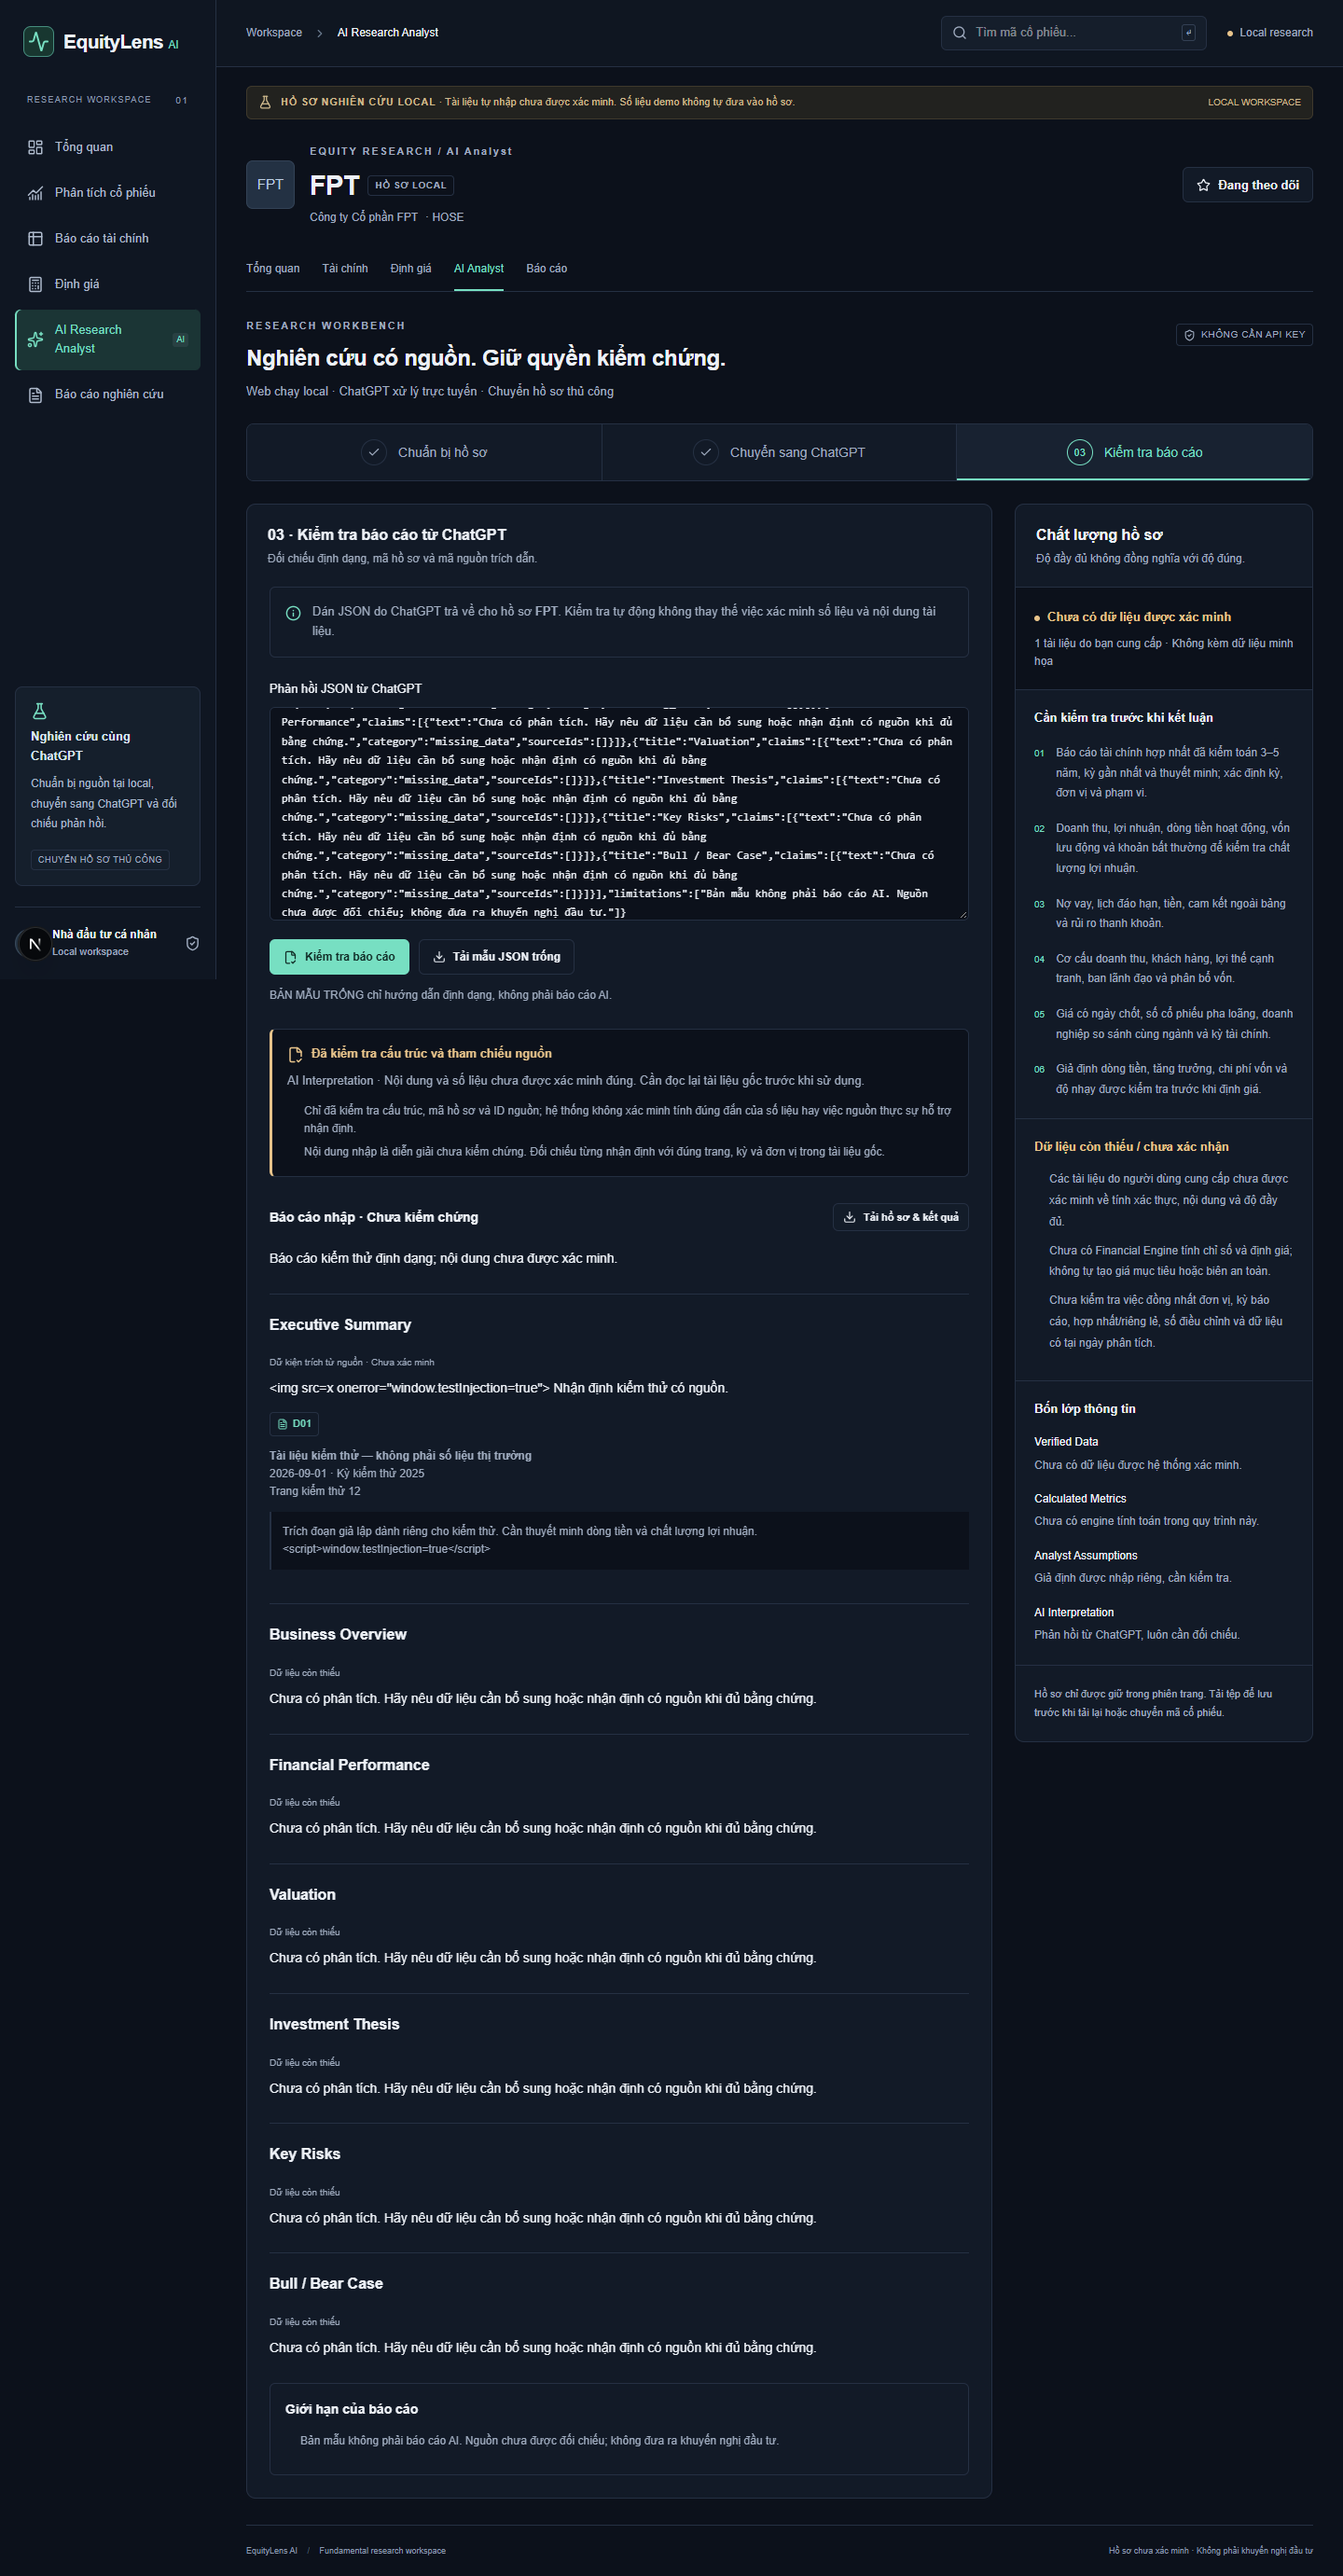
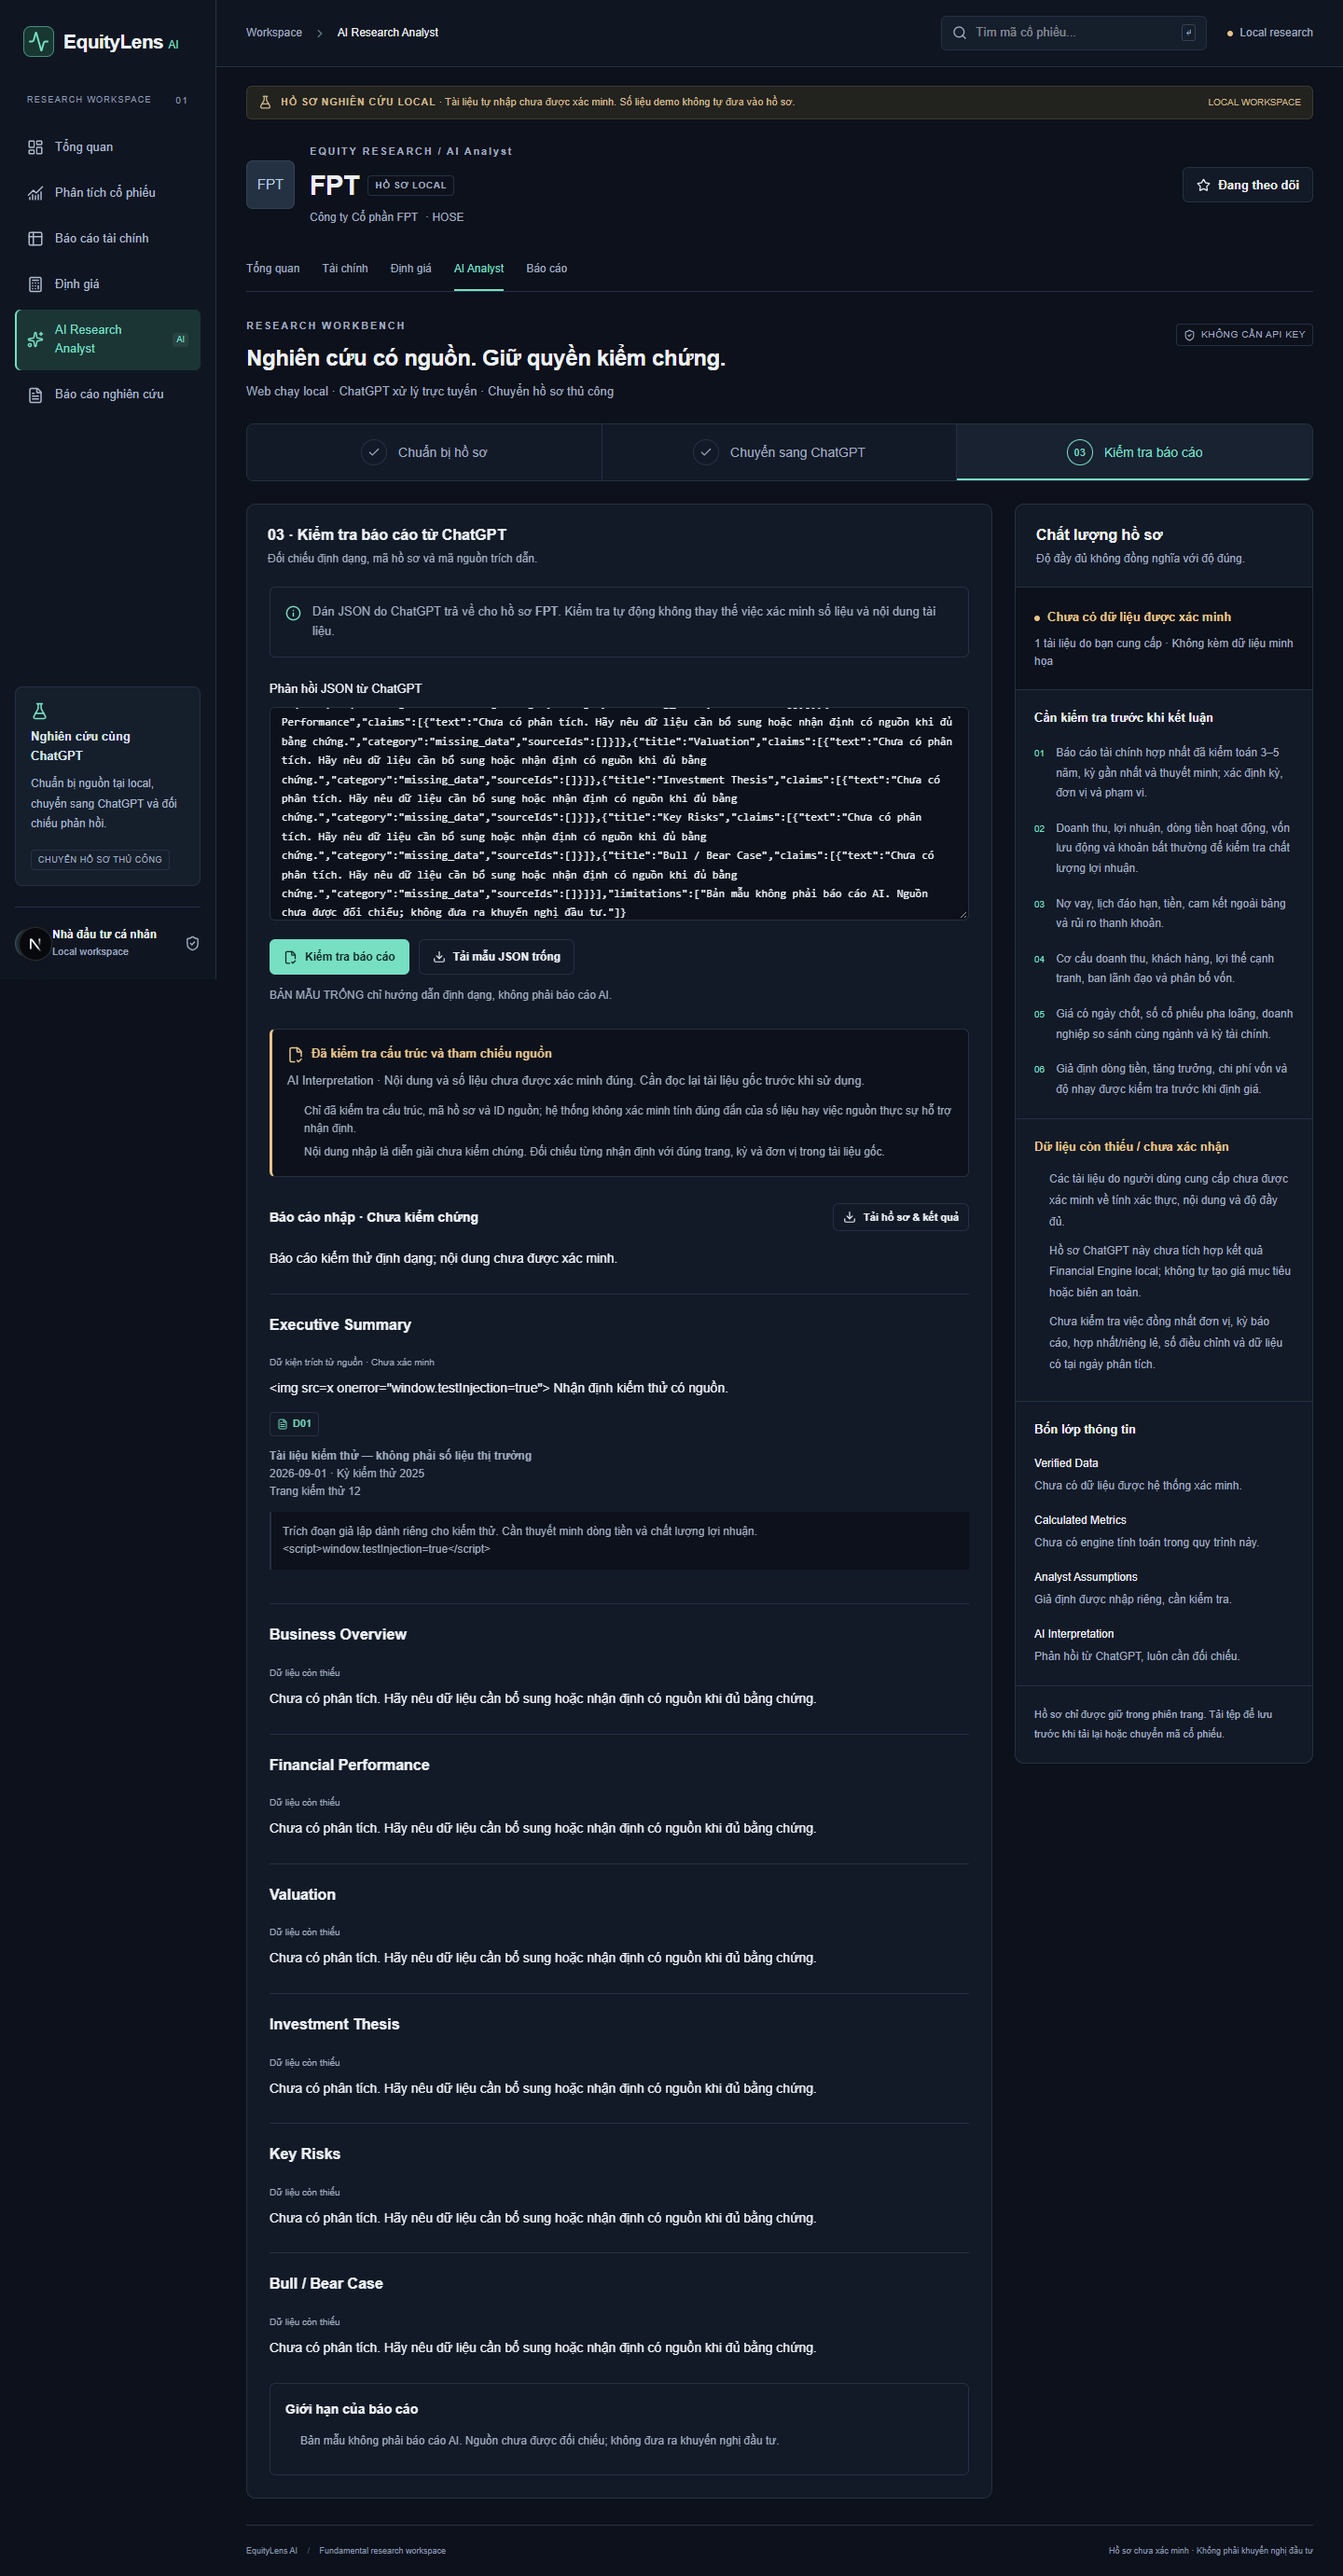
docs: record Phase 2 verification and model limitations

Changed region(s): [[0.75, 0.4671, 0.9688, 0.685]]

diff --git a/docs/PHASE2_REPORT.md b/docs/PHASE2_REPORT.md
@@ -1,0 +1,66 @@
+# Phase 2 — Financial Intelligence Engine
+
+Ngày hoàn thành kiểm tra: 10/10/2026. Branch làm việc: `feature/equitylens-foundation`. Kế thừa ứng dụng Phase 1, không khởi tạo lại, không thêm dependency, không gọi dịch vụ trả phí hoặc deploy.
+
+## Đã triển khai
+
+- Audit README, AGENTS, docs/research, routes/components/lib/provider và provenance trước khi sửa; baseline lint/typecheck/build và 15 unit tests thành công. Kế hoạch và rủi ro ở [PHASE2_PLAN.md](PHASE2_PLAN.md).
+- Dataset v2 có type safety và Zod strict; ba báo cáo doanh nghiệp phi tài chính, metadata nguồn/vị trí/kỳ/phạm vi/kiểm toán/ngày công bố/currency/unit. `null` giữ thiếu dữ liệu. Kiểm tra ID nguồn, ngày, lịch tài chính, đơn vị giá/EPS, phạm vi số, một số quan hệ kế toán.
+- Chuẩn hóa nghìn/triệu/tỷ về đơn vị tiền và số cổ phiếu thực; từ chối FX tự động. Phân biệt annual/quarter/YTD, chuyển dòng YTD sang quý từ hai kỳ tương thích, giữ số dư cuối kỳ và không trừ EPS; có lineage cả hai kỳ.
+- 27 tỷ số cho doanh nghiệp phi tài chính, công thức và đầu vào có nguồn, dùng bình quân đầu-cuối kỳ khi cần, tăng trưởng cùng kỳ, không annualize ngầm. Null, mẫu số không dương, nguồn kỳ không tương thích và định chế tài chính có trạng thái chặn rõ.
+- FCFF lịch sử và forecast từ doanh thu, biên EBIT, thuế, D&A, CAPEX, WC; hàm WACC, chiết khấu cuối năm, Gordon terminal, EV, equity bridge gồm cash/non-operating assets/debt/NCI/preferred/claims và giá trị mỗi cổ phiếu.
+- Bear/Base/Bull nhập/sửa trực tiếp, EV/equity/per-share/upside/MOS, bảng forecast và bridge, sensitivity 5×5 dùng cùng engine. Giả định thiếu giữ trống, chỉ MOCK được nạp preset.
+- P/E, P/B, EV/EBITDA relative valuation; peer JSON có nguồn, lý do chọn, khác biệt quy mô/tăng trưởng/lợi nhuận/cơ cấu vốn; median từ hệ số hợp lệ, không tạo peer.
+- UI Financial Analysis/Valuation dùng design system cũ, bảng mở nguồn, biểu đồ lịch sử cùng scope/basis, cảnh báo dữ liệu và công thức. Import file/dán JSON, xuất JSON, lưu/tải chủ động localStorage; giả định lưu riêng theo mã/kỳ.
+- Schema khung riêng cho bank/securities/insurance, khóa ratio corporate và mọi định giá cho ba nhóm. VCB/MBB không nhận corporate JSON để lách guard.
+- Giữ dashboard, watchlist, sáu mã, chart, điều hướng, AI Analyst chuyển hồ sơ thủ công với ChatGPT và mẫu Research Reports. Bảng/kịch bản Phase 1 vẫn truy cập qua tab demo. Cập nhật nhãn trang để không gọi dữ liệu tự nhập là MOCK/Verified.
+
+## Công thức và phương pháp
+
+- [27 tỷ số, đầu vào, ý nghĩa và điều kiện khóa](FINANCIAL_FORMULAS.md).
+- [DCF–FCFF, WACC, terminal value, equity bridge, scenario/sensitivity và relative valuation](VALUATION_METHODS.md).
+- [Schema JSON, tiền tệ/đơn vị, kỳ, nguồn, nhập và lưu local](FINANCIAL_DATA.md).
+
+Số liệu được tính bằng pure functions. Công thức không do ChatGPT tạo tại runtime. Một case E2E độc lập: doanh thu 1.200 triệu, EBIT 20%, thuế 20%, D&A 5%, CAPEX 7%, growth 0%, WC không đổi → FCFF 168 triệu/năm; WACC 10%, g 0% → EV 1.680 triệu; tiền 150 triệu, nợ 300 triệu, claims khác 0, 100.000 cổ phiếu → 15.300 VND/cp. Đây là **bài kiểm thử giả lập**, không phải định giá FPT.
+
+## Kết quả kiểm tra thực tế
+
+| Lệnh / kiểm tra | Kết quả |
+| --- | --- |
+| `npm run lint` | PASS |
+| `npm run typecheck` | PASS |
+| `npm test` | PASS — 49 tests, 6 files; 34 tests Financial Engine và 15 tests cũ |
+| `npm run build` | PASS — Next.js tạo 34 static pages, gồm dashboard và 30 ticker/section paths |
+| `npm run test:e2e` với `PLAYWRIGHT_CHANNEL=chrome` | PASS — 16 tests (11 cũ, 5 Phase 2) |
+| E2E riêng sau bổ sung responsive ratios | PASS — 5 tests Phase 2 |
+| `git diff --check` | PASS; chỉ có thông báo Git chuyển LF/CRLF trên Windows |
+| Ảnh UI | Đã xem kết quả DCF desktop và tỷ số mobile, bảng giữ cuộn ngang nội bộ |
+
+Unit tests gồm golden values cho từng nhóm tỷ số, FCFF/WACC, discount factors, terminal/equity/per-share, negative/null/zero/nonfinite, invalid assumptions, đổi quy mô tiền/cổ phiếu tương đương, năm tài chính không kết thúc tháng 12, YTD, scope/basis, dữ liệu mâu thuẫn, scenario/sensitivity, peer và sector guard. Integration tests kiểm tra từ dataset vào engine và từ nhập JSON vào số hiển thị.
+
+E2E có lưu/tải dữ liệu sau reload, JSON export giữ nguyên, giá trị ROE/P/E/FCF, bài DCF tính tay, cập nhật WACC, lưu/khôi phục giả định, g≥WACC bị chặn, thiếu claim không thay 0, EPS âm/thiếu CFO, JSON sai không giữ kết quả cũ, HTML được render như text, median peer và khóa ngân hàng. Kiểm tra chiều rộng 320/390/768/1440 với dữ liệu Engine; suite cũ còn có 1024.
+
+Những lỗi đã tìm và sửa: lịch sử có thể trộn annual hợp nhất/riêng lẻ; CAGR chưa chặn kỳ gốc mâu thuẫn; nguồn FCFF lịch sử thiếu kỳ đầu; P/E/EV có tử số không dương; fixture tỷ lệ cổ phiếu khiến giá/cp khó đọc. Hai E2E ban đầu thất bại do selector `role=alert` trùng route announcer của Next.js; đã chọn đúng vùng lỗi ứng dụng và chạy lại thành công. Không nới assertion để bỏ kiểm tra logic.
+
+Chrome chạy profile kiểm thử riêng. CUA/shell sandbox thường gặp lỗi khởi tạo helper tại môi trường này; các lệnh local được chạy qua cơ chế escalation đã cho phép. Không cần cài dependency hoặc browser mới. Production build chỉ được tạo local, không deploy. Dependency audit đã ghi trong README là lần kiểm tra 09/10/2026 (0 production, 5 high thuộc dev ESLint chain); **không chạy lại audit registry ở Phase 2**, package/lockfile không đổi.
+
+## Chưa triển khai và rủi ro còn lại
+
+1. Không có adapter dữ liệu thật/giấy phép, kiểm toán nguồn, xác minh nội dung citation, OCR/PDF extraction hoặc tự động tạo Verified Data. Schema hợp lệ chỉ chứng minh cấu trúc. Dữ liệu MOCK luôn để luyện tập.
+2. Schema định chế tài chính mới là khung; chưa NIM/CAR/NPL đầy đủ, P/B chuyên ngành, residual income hoặc DDM. UI vẫn sáu mã Phase 1, chưa thêm mã hoặc bao phủ HOSE/HNX/UPCoM.
+3. DCF có growth/margins cố định trong forecast, chiết khấu về cuối năm cơ sở. Chưa định giá tại một ngày giữa năm, roll-forward, điều chỉnh lease/pension, mô hình lỗ chuyển kỳ, pha loãng/corporate actions hoặc terminal ROIC/reinvestment riêng. Terminal dùng FCFF cuối × (1+g); cần năm cuối ổn định. WACC được người dùng nhập; pure function có sẵn nhưng chưa form CAPM/WACC builder.
+4. Chưa TTM, FX, 52/53-week/transition periods, đầy đủ đối chiếu ba báo cáo hay kiểm soát restatement bằng tài liệu. `basis` chỉ so khớp chuỗi do người dùng khai báo. Báo cáo/giá có thể cũ; thời điểm luôn hiển thị, không có bộ đánh giá độ mới tự động.
+5. Độ chính xác tính theo IEEE-754 và giới hạn safe magnitude, làm tròn chỉ ở UI. Không thay thế hệ thống sổ cái decimal. Giá trị bridge từ sổ sách có thể khác giá trị kinh tế, tiền bị hạn chế và assets trùng lặp cần đối chiếu.
+6. Peer ngành `corporate` là nhóm rộng; chưa tự kiểm tra ngành hẹp, định nghĩa multiple, scope hay thời điểm giá. Median chỉ tổng hợp dữ liệu đã cung cấp. Peer/nguồn gốc multiple chưa nằm trong bundle lưu giả định; nên giữ tệp JSON nguồn riêng. Chưa có thesis/rationale editor cho từng assumption.
+7. localStorage không mã hóa, không đồng bộ, khác theo origin/trình duyệt và có thể bị xóa. Lưu/xuất chủ động; chuyển trang mất dữ liệu chưa lưu. Không có backend/database hoặc mô hình tài khoản.
+8. Engine chưa tự đính kèm output vào ChatGPT packet. Luồng dùng tài khoản ChatGPT hiện có vẫn là copy/export/import thủ công, ChatGPT xử lý trực tuyến; không có API tính phí. Research Reports/PDF hoàn chỉnh chưa có.
+9. Các agent tài chính đã hỗ trợ tham chiếu/audit nhưng chạm quota; root hoàn thành engine và review cuối, agent UI triển khai giao diện. Đây chưa phải xác nhận độc lập của chuyên gia kiểm toán/tài chính.
+
+## Đề xuất Phase 3
+
+1. Export snapshot tài chính gồm version, input lineage, kết quả xác định, assumptions và peer lineage vào hồ sơ ChatGPT; kiểm tra phản hồi không tự thêm/sửa số và source IDs.
+2. Tạo regression fixtures từ báo cáo được quyền sử dụng, kiểm tra chéo bằng bảng tính độc lập, thêm financial-domain review trước khi dùng nghiên cứu thực.
+3. Mở rộng từng mô hình riêng: TTM và corporate actions; định giá đúng ngày và terminal reinvestment; sau đó bank/residual income/DDM cùng schema/guard/tests tương ứng.
+4. Đánh giá adapter Việt Nam, điều kiện cấp phép và xác minh nguồn; chỉ nối nguồn được xác nhận khả dụng. Giữ lựa chọn local/không API trả phí hiện tại.
+
+Commit được chia theo module trên branch đang làm việc; chỉ push branch này, không force-push, merge hay deploy. Xem lịch sử Git để biết SHA phát hành.
